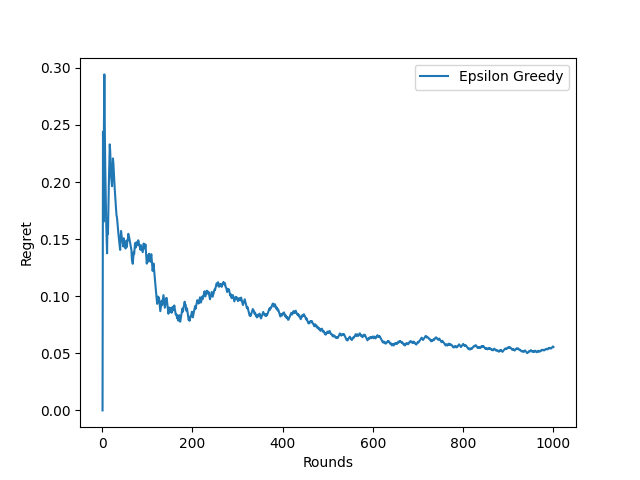
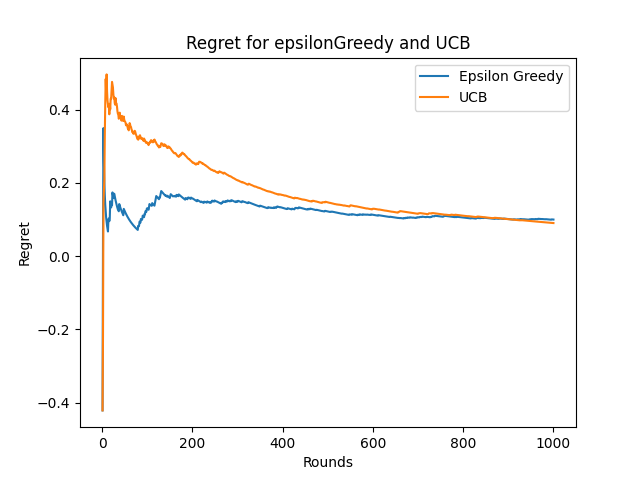
Done with both

diff --git a/Reinforcement Learning/Exercise_1/epsilonGreedy.py b/Reinforcement Learning/Exercise_1/epsilonGreedy.py
@@ -10,7 +10,7 @@ class Tester:
         self.T = rounds
 
         # Creating an array of individual dictionaries for each bandit
-        self.bandits = np.array([{'prob': 0, 'reward': 0, 'score': 0, 'Q': 0, 'mu': 0} for _ in range(self.K)])
+        self.bandits = np.array([{'prob': 0, 'reward': 0} for _ in range(self.K)])
         self.best_bandit = {'arm': 0,  "arm_score": 0, 'round_score': [0 for _ in range(self.T)]}
 
         # Creating the bandits
@@ -18,6 +18,7 @@ class Tester:
 
         # Choosing the best arm based on the data currently available
         self.find_best_arm()
+
 
     # Function for creating the bandits
     def create_bandits(self):
@@ -36,6 +37,8 @@ class Tester:
             else:
                 self.bandits[i]['reward'] = np.random.uniform(b, a)
 
+    
+    # Function for finding the best arm based on the data currently available
     def find_best_arm(self):
         # Calculating the product of the probability of success and the reward of each arm
         prob_reward = [bandit['prob'] * bandit['reward'] for bandit in self.bandits]
@@ -46,6 +49,8 @@ class Tester:
         # Updating the score of the arm based on the product
         self.best_bandit['arm_score'] = prob_reward[self.best_bandit['arm']]
 
+
+    # Function for running the epsilonGreedy algorithm and returning the regret
     def run_EpsilonGreedy(self):
         # Creating the epsilonGreedy algorithm
         epsilon_greedy = EpsilonGreedy(self.K, self.T, self.bandits, self.best_bandit)
@@ -53,6 +58,37 @@ class Tester:
         # Running the algorithm and returning the regret
         return epsilon_greedy.run_experiment()
 
+    
+    # Function for running the epsilonGreedy algorithm and returning the regret
+    def run_UCB(self):
+        # Creating the epsilonGreedy algorithm
+        ucb = UCB(self.K, self.T, self.bandits, self.best_bandit)
+
+        # Running the algorithm and returning the regret
+        return ucb.run_experiment()
+    
+
+    # Function for plotting the regret of the algorithms
+    def plot_regret(self, epsilon_regret, label_epsilon, ucb_regret, label_ucb):
+        # Creating a vector for representing the rounds
+        round_vector = np.arange(1, self.T+1)
+
+        # Plotting the regret for the epsilonGreedy algorithm
+        plt.plot(round_vector, epsilon_regret, label=label_epsilon)
+        plt.plot(round_vector, ucb_regret, label=label_ucb)
+
+        plt.title("Regret for epsilonGreedy and UCB")
+        plt.xlabel('Rounds')
+        plt.ylabel('Regret')
+        plt.legend()
+        plt.savefig('regret_' + str(self.T) + '.png')
+
+        # plt.plot(np.arange(1, rounds+1), ucb_regret, label=label2)
+        # plt.xlabel('Rounds')
+        # plt.ylabel('Regret')
+        # plt.legend()
+        # plt.savefig('regret' + str(rounds) + '.png')
+        print("done")
 
 #################################################### Epsilon Greedy ####################################################
 
@@ -62,11 +98,14 @@ class EpsilonGreedy:
         # Assigning the number of bandits and the rounds to the class
         self.K = numOfBandits
         self.T = rounds
-        self.bandits = bandits
+        # self.bandits = bandits
         self.best_bandit = best_bandit
 
-        # Creating a dictionary containing the needed values for measuring the performance of the algorithm
+
+        # Creating two dictionaries containing the needed values for measuring the performance of the algorithm
+        self.bandits = np.array([{'prob': bandits[x]['prob'], 'reward': bandits[x]['reward'], 'score': 0, 'Q': 0, 'mu': 0} for x in range(self.K)])
         self.algo_stats = {'round_score': [0 for _ in range(self.T)], 'algo_score': [0 for _ in range(self.T)], 'regret': [0 for _ in range(self.T)]}
+
 
     # Function for choosing between exploration and exploitation
     def choose_action(self, epsilon):
@@ -78,6 +117,7 @@ class EpsilonGreedy:
         else:
             # Return the arm with the highest mu value
             return np.argmax([bandit['mu'] for bandit in self.bandits])
+
 
     # Function for updating the measurements
     def update_measurements(self, arm, round):
@@ -93,6 +133,7 @@ class EpsilonGreedy:
 
         # Updating the mu value of the arm accordingly
         self.bandits[arm]['mu'] = self.bandits[arm]['score'] / self.bandits[arm]['Q']
+
 
     # Function for calculating the regret of the algorithm
     def calculate_regret(self):
@@ -115,6 +156,7 @@ class EpsilonGreedy:
             # Calculating the regret
             self.algo_stats['regret'][i] = (self.best_bandit['round_score'][i] - self.algo_stats['algo_score'][i]) / (i + 1)
 
+
     # Function for running the algorithm and extracting the results
     def run_experiment(self):
         # For each round
@@ -129,100 +171,79 @@ class EpsilonGreedy:
             # Updating the measurements using the chosen arm
             self.update_measurements(arm, curr_round)
 
-            # Calculating the regret
-            self.calculate_regret()
+        # Calculating the regret
+        self.calculate_regret()
 
         return self.algo_stats['regret']
 
-
 ###################################################################### UCB ######################################################################
 # Creating a class for espilonGreedy algorithm
-class UBC:
-    def __init__(self, k, t):
-        self.K = k
-        self.T = t
+class UCB:
+    def __init__(self, numOfBandits, rounds, bandits, best_bandit):
+        self.K = numOfBandits
+        self.T = rounds
+        self.best_bandit = best_bandit
 
-        # Creating the needed variables
-        self.bandits = np.array([{'prob':0, 'reward':0, 'score':0, 'Q':0, 'mu':0, 'ubc':2**23} for _ in range(self.K)])
+        # Creating two dictionaries containing the needed values for measuring the performance of the algorithm
+        self.bandits = np.array([{'prob': bandits[x]['prob'], 'reward': bandits[x]['reward'], 'score':0, 'Q':0, 'mu':0, 'ucb':2**10} for x in range(self.K)])
+        self.algo_stats = {'round_score': [0 for _ in range(self.T)], 'algo_score': [0 for _ in range(self.T)], 'regret': [0 for _ in range(self.T)]}
 
-        # Creating the bandits
-        self.create_bandits()
-
-
-    # Function for creating the bandits
-    def create_bandits(self):
-        [self.bandits[x].update([('prob', np.random.uniform(0, 1))]) for x in range(self.K)]
-        
-        # For each bandit
-        for i in range(self.K):
-            # Creating a and b values
-            a = np.random.random()
-            b = np.random.random()
-
-            # Checking which one is bigger and assigning the uniform success probability accordingly
-            if a < b:
-                self.bandits[i]['reward'] = np.random.uniform(a, b)
-            else:
-                self.bandits[i]['reward'] = np.random.uniform(b, a)
-        
-
-    # Function for choosing between exploration and exploitation
-    def choose_action(self):
-        return np.argmax([bandit['ubc'] for bandit in self.bandits])
-    
 
     # Function for updating the measurements
-    def update_measurements(self, arm):
+    def update_measurements(self, arm, round):
+        # Incrementing the number the arm was chosen
         self.bandits[arm]['Q'] += 1
-        self.bandits[arm]['score'] += self.bandits[arm].get('reward')
+
+        # Calculating the reward based on the probability of success and the reward of the arm
+        score = self.bandits[arm]['reward'] * np.random.binomial(1,p=self.bandits[arm]['prob'])
+
+        # Updating the score of the arm and saving the score of the round accordingly
+        self.bandits[arm]['score'] += score
+        self.algo_stats['round_score'][round] = score
+
+        # Updating the mu value of the arm accordingly
+        self.bandits[arm]['mu'] = self.bandits[arm]['score'] / self.bandits[arm]['Q']
+
+        # Updating the ucb value of the arm accordingly
+        self.bandits[arm]['ucb'] = self.bandits[arm]['mu'] + np.sqrt(np.log(self.T) / self.bandits[arm]['Q'])
 
 
-    # Function for updating the mu value
-    def update_mu(self, arm):
-        self.bandits[arm]['mu'] = self.bandits[arm].get('score') / self.bandits[arm].get('Q')
+    # Function for calculating the regret of the algorithm
+    def calculate_regret(self):
+        for i in range(self.T):
+            # Calculating the best score
+            if i > 0:
+                # Assigning the score of the best arm to the algorithm score
+                self.best_bandit['round_score'][i] = self.best_bandit['round_score'][i-1] + self.best_bandit['arm_score']
 
+                # Assigning the score of the epsilon greedy algorithm based on the score of each round
+                self.algo_stats['algo_score'][i] = self.algo_stats['algo_score'][i-1] + self.algo_stats['round_score'][i]
 
-    # Function for updating the ucb value
-    def update_ubc(self, arm):
-        self.bandits[arm]['ubc'] = self.bandits[arm]['mu'] + np.sqrt(np.log(self.T) / self.bandits[arm]['Q'])
+            else:
+                # Assigning the score of the best arm to the algorithm score for the first round
+                self.best_bandit['round_score'][i] = self.best_bandit['round_score'][i]
+
+                # Assigning the score of the epsilon greedy algorithm based on the score of each round
+                self.algo_stats['algo_score'][i] = self.algo_stats['round_score'][i]
+
+            # Calculating the regret
+            self.algo_stats['regret'][i] = (self.best_bandit['round_score'][i] - self.algo_stats['algo_score'][i]) / (i + 1)
 
 
     # Function for running the algorithm and extracting the results
     def run_experiment(self):
         # For each round
-        for i in range(self.T):
+        for curr_round in range(self.T):
             # Choosing the arm
-            arm = self.choose_action()
+            arm = np.argmax([bandit['ucb'] for bandit in self.bandits])
 
             # Updating the measurements using the chosen arm
-            self.update_measurements(arm)
-
-            # Update the mu value
-            self.update_mu(arm)
-
-            # Updating the ucb value
-            self.update_ubc(arm)
+            self.update_measurements(arm, curr_round)
             
+        # Calculating the regret
+        self.calculate_regret()
 
-        # Printing the results
-        for i in range(self.K):
-            print('prob = %.2f, reward = %.2f, score = %6.2f, mu = %.2f, Q = %3d, ubc = %.3f' %  (self.bandits[i].get('prob'), self.bandits[i].get('reward'), self.bandits[i].get('score'), self.bandits[i].get('mu'), self.bandits[i].get('Q'), self.bandits[i].get('ubc')))
-
-
-
-
-def plot_regret(rounds, regret, label):
-    plt.plot(np.arange(1, rounds+1), regret, label=label)
-    plt.xlabel('Rounds')
-    plt.ylabel('Regret')
-    plt.legend()
-    plt.savefig('regret_' + str(rounds) + '.png')
-    print("done")
-
-def print_stats(bandits_list):
-        for i in range(10):
-            prob = bandits_list[i]['prob'] * bandits_list[i]['reward']
-            print('%d) prob = %.2f, reward = %.2f, score = %6.2f, mu = %.2f, Q = %3d , aaa = %.2f' %  ((i), bandits_list[i].get('prob'), bandits_list[i].get('reward'), bandits_list[i].get('score'), bandits_list[i].get('mu'), bandits_list[i].get('Q'), prob))
+        return self.algo_stats['regret']
 
 ###################################################################### Main #####################################################################
 if __name__ == '__main__':
@@ -232,15 +253,11 @@ if __name__ == '__main__':
     # Create bandits
     tester = Tester(K, T)
 
-    # Run the experiment for each algorithm
-    reg = tester.run_EpsilonGreedy()
-    plot_regret(T, reg, label='Epsilon Greedy')
+    # Running the epsilon greedy algorithm
+    epsilon_regret = tester.run_EpsilonGreedy()
 
+    # Running the UCB algorithm
+    ucb_regret = tester.run_UCB()
 
-
-
-    # epsilon = EpsilonGreedy(K, T, bandits_list, chosen_bandit)
-    # epsilon_regret = epsilon.run_experiment()
-
-    # plot_regret(T, epsilon_regret, 'Epsilon Greedy')
-
+    # Plotting the results
+    tester.plot_regret(epsilon_regret, 'Epsilon Greedy', ucb_regret, 'UCB')
